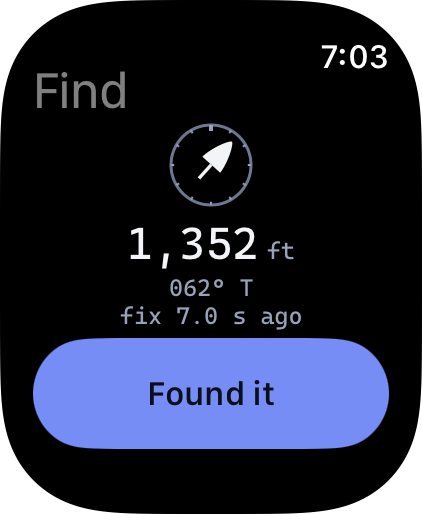
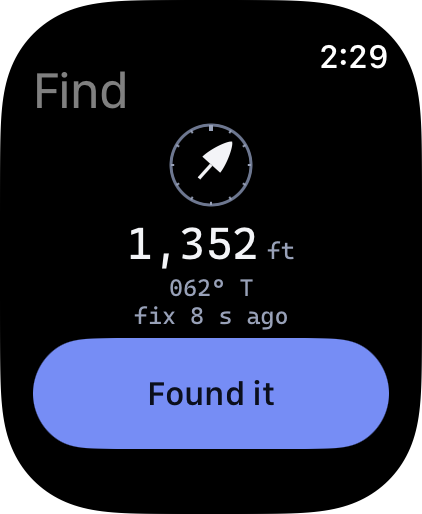
One arm confirmation on both platforms; whole seconds on the watches; the watch rule confirmed
- "Arm FS-VEGA-004?" / "Once armed, the charges can fire. The airframe switch must be on." /
  "Arm FS-VEGA-004" and Cancel, the same on iPhone and Android. SwiftUI gets fsArmConfirmation,
  used by FSHoldToConfirm's VoiceOver action (its dialog said "Hold to arm FS-VEGA-004?"). An alert:
  iOS 27 draws a confirmation dialog as a see-through popover over the arming panel, with no Cancel.
- Watch Find shows the fix's age in whole seconds on both platforms: the screen redraws once a
  second, so the tenths never moved. VoiceOver on Apple Watch says "fix 8 seconds old".
- product/watch.md: why a watch never sends SAFE (an accidental SAFE after arming means no
  deployment; the flier is at the pad for arming and disarming).
- face.sh takes AT_TIME=10:09 to wait for the clock before capturing a face.
- Retaken: watch-ultra-find, watch-se40-find, wear-find, wear-small-find.

Changed region(s): [[0.2773, 0.5914, 0.7085, 0.6537], [0.7701, 0.0934, 0.9242, 0.1556]]

diff --git a/product/watch/swiftui/FSWatch.swift b/product/watch/swiftui/FSWatch.swift
@@ -65,6 +65,24 @@ public struct FSBearingArrow: View {
     }
 }
 
+/// A fix's age on the watch, in whole seconds ("4 s ago", "3 min ago", "2 h ago"): the screen redraws once a second, so a
+/// tenths digit would sit still and only look precise. `spoken` is the same in words for VoiceOver ("4 seconds").
+enum FSWatchAge {
+    static func shown(since d: Date, now: Date) -> String {
+        let s = Int(max(0, now.timeIntervalSince(d)))
+        if s < 60 { return "\(s)\u{00A0}s ago" }
+        if s < 3600 { return "\(s / 60)\u{00A0}min ago" }
+        return "\(s / 3600)\u{00A0}h ago"
+    }
+    static func spoken(since d: Date, now: Date) -> String {
+        let s = Int(max(0, now.timeIntervalSince(d)))
+        func n(_ v: Int, _ unit: String) -> String { "\(v) \(unit)" + (v == 1 ? "" : "s") }
+        if s < 60 { return n(s, "second") }
+        if s < 3600 { return n(s / 60, "minute") }
+        return n(s / 3600, "hour")
+    }
+}
+
 /// Find: the way to a landed rocket, how far, the bearing in degrees true, and how old the fix is. Dims for Always On:
 /// outlines, muted, the age replaced by the time it was true ("as of 9:41"), redrawn once a minute.
 public struct FSWatchFind: View {
@@ -102,7 +120,7 @@ public struct FSWatchFind: View {
             .lineLimit(1).minimumScaleFactor(0.7)
             .accessibilityElement(children: .ignore)
             .accessibilityLabel(Text("Rocket \(distanceFt.formatted()) feet away, \(spokenDirection)"))
-            .accessibilityValue(Text(FSFreshness.age(since: fixedAt, now: now)))
+            .accessibilityValue(Text("fix \(FSWatchAge.spoken(since: fixedAt, now: now)) old"))
             Text(qualifier(now: now)).font(FS.label()).foregroundStyle(d.inkMuted)
                 .multilineTextAlignment(.center).fixedSize(horizontal: false, vertical: true)
             // The primary action, full width in the content (a bottom-bar item would sit over the text above).
@@ -131,7 +149,7 @@ public struct FSWatchFind: View {
         let bearing = String(format: "%03d°\u{00A0}T", Int(bearingTrue.rounded()) % 360)
         // Two short lines rather than one long one: the smallest watch is 162 pt wide.
         if dimmed { return "\(bearing)\nas of \(fixedAt.formatted(date: .omitted, time: .shortened))" }
-        return "\(bearing)" + (headingTrue == nil ? " · from north" : "") + "\nfix \(FSFreshness.age(since: fixedAt, now: now))"
+        return "\(bearing)" + (headingTrue == nil ? " · from north" : "") + "\nfix \(FSWatchAge.shown(since: fixedAt, now: now))"
     }
 }
 

diff --git a/source/product/watch/swiftui/FSWatch.swift b/source/product/watch/swiftui/FSWatch.swift
@@ -65,6 +65,24 @@ public struct FSBearingArrow: View {
     }
 }
 
+/// A fix's age on the watch, in whole seconds ("4 s ago", "3 min ago", "2 h ago"): the screen redraws once a second, so a
+/// tenths digit would sit still and only look precise. `spoken` is the same in words for VoiceOver ("4 seconds").
+enum FSWatchAge {
+    static func shown(since d: Date, now: Date) -> String {
+        let s = Int(max(0, now.timeIntervalSince(d)))
+        if s < 60 { return "\(s)\u{00A0}s ago" }
+        if s < 3600 { return "\(s / 60)\u{00A0}min ago" }
+        return "\(s / 3600)\u{00A0}h ago"
+    }
+    static func spoken(since d: Date, now: Date) -> String {
+        let s = Int(max(0, now.timeIntervalSince(d)))
+        func n(_ v: Int, _ unit: String) -> String { "\(v) \(unit)" + (v == 1 ? "" : "s") }
+        if s < 60 { return n(s, "second") }
+        if s < 3600 { return n(s / 60, "minute") }
+        return n(s / 3600, "hour")
+    }
+}
+
 /// Find: the way to a landed rocket, how far, the bearing in degrees true, and how old the fix is. Dims for Always On:
 /// outlines, muted, the age replaced by the time it was true ("as of 9:41"), redrawn once a minute.
 public struct FSWatchFind: View {
@@ -102,7 +120,7 @@ public struct FSWatchFind: View {
             .lineLimit(1).minimumScaleFactor(0.7)
             .accessibilityElement(children: .ignore)
             .accessibilityLabel(Text("Rocket \(distanceFt.formatted()) feet away, \(spokenDirection)"))
-            .accessibilityValue(Text(FSFreshness.age(since: fixedAt, now: now)))
+            .accessibilityValue(Text("fix \(FSWatchAge.spoken(since: fixedAt, now: now)) old"))
             Text(qualifier(now: now)).font(FS.label()).foregroundStyle(d.inkMuted)
                 .multilineTextAlignment(.center).fixedSize(horizontal: false, vertical: true)
             // The primary action, full width in the content (a bottom-bar item would sit over the text above).
@@ -131,7 +149,7 @@ public struct FSWatchFind: View {
         let bearing = String(format: "%03d°\u{00A0}T", Int(bearingTrue.rounded()) % 360)
         // Two short lines rather than one long one: the smallest watch is 162 pt wide.
         if dimmed { return "\(bearing)\nas of \(fixedAt.formatted(date: .omitted, time: .shortened))" }
-        return "\(bearing)" + (headingTrue == nil ? " · from north" : "") + "\nfix \(FSFreshness.age(since: fixedAt, now: now))"
+        return "\(bearing)" + (headingTrue == nil ? " · from north" : "") + "\nfix \(FSWatchAge.shown(since: fixedAt, now: now))"
     }
 }
 

diff --git a/product/mobile/swiftui/FSComponents.swift b/product/mobile/swiftui/FSComponents.swift
@@ -452,11 +452,31 @@ public struct FSHoldToConfirm: View {
             .accessibilityLabel(Text("\(title) \(designation)"))
             .accessibilityHint(Text("Press and hold for \(Int(duration)) seconds, or use the action to confirm instead."))
             .accessibilityAddTraits(.isButton)
-            .accessibilityAction(named: Text("\(title) with a confirmation")) { confirming = true }
-            .confirmationDialog(Text("\(title) \(designation)?"), isPresented: $confirming, titleVisibility: .visible) {
-                Button(title, role: .destructive) { done += 1; action() }
-                Button("Cancel", role: .cancel) {}
-            }
+            .accessibilityAction(named: Text("\(verb) with a confirmation")) { confirming = true }
+            .fsArmConfirmation(isPresented: $confirming, action: verb, designation: designation) { done += 1; action() }
+        }
+    }
+
+    /// The verb the control stands for: "Hold to arm" → "Arm".
+    private var verb: String {
+        let v = title.hasPrefix("Hold to ") ? String(title.dropFirst(8)) : title
+        return v.prefix(1).uppercased() + v.dropFirst()
+    }
+}
+
+extension View {
+    /// The two-step alternative to `FSHoldToConfirm` (product/embedded.md): "Arm FS-VEGA-004?", what arming means, then a
+    /// button that repeats the action with the device's designation ("Arm FS-VEGA-004", destructive) and Cancel. Open it from
+    /// the hold control's VoiceOver action and from a visible "Arm with a confirmation instead" button under it. An alert, not
+    /// a confirmation dialog: iOS 27 draws those as a see-through popover over the arming panel, with no Cancel button.
+    public func fsArmConfirmation(isPresented: Binding<Bool>, action: String = "Arm", designation: String,
+                                  message: String = "Once armed, the charges can fire. The airframe switch must be on.",
+                                  onConfirmed: @escaping () -> Void) -> some View {
+        alert(Text("\(action) \(designation)?"), isPresented: isPresented) {
+            Button("\(action) \(designation)", role: .destructive, action: onConfirmed)
+            Button("Cancel", role: .cancel) {}
+        } message: {
+            Text(message)
         }
     }
 }

diff --git a/source/product/mobile/swiftui/FSComponents.swift b/source/product/mobile/swiftui/FSComponents.swift
@@ -452,11 +452,31 @@ public struct FSHoldToConfirm: View {
             .accessibilityLabel(Text("\(title) \(designation)"))
             .accessibilityHint(Text("Press and hold for \(Int(duration)) seconds, or use the action to confirm instead."))
             .accessibilityAddTraits(.isButton)
-            .accessibilityAction(named: Text("\(title) with a confirmation")) { confirming = true }
-            .confirmationDialog(Text("\(title) \(designation)?"), isPresented: $confirming, titleVisibility: .visible) {
-                Button(title, role: .destructive) { done += 1; action() }
-                Button("Cancel", role: .cancel) {}
-            }
+            .accessibilityAction(named: Text("\(verb) with a confirmation")) { confirming = true }
+            .fsArmConfirmation(isPresented: $confirming, action: verb, designation: designation) { done += 1; action() }
+        }
+    }
+
+    /// The verb the control stands for: "Hold to arm" → "Arm".
+    private var verb: String {
+        let v = title.hasPrefix("Hold to ") ? String(title.dropFirst(8)) : title
+        return v.prefix(1).uppercased() + v.dropFirst()
+    }
+}
+
+extension View {
+    /// The two-step alternative to `FSHoldToConfirm` (product/embedded.md): "Arm FS-VEGA-004?", what arming means, then a
+    /// button that repeats the action with the device's designation ("Arm FS-VEGA-004", destructive) and Cancel. Open it from
+    /// the hold control's VoiceOver action and from a visible "Arm with a confirmation instead" button under it. An alert, not
+    /// a confirmation dialog: iOS 27 draws those as a see-through popover over the arming panel, with no Cancel button.
+    public func fsArmConfirmation(isPresented: Binding<Bool>, action: String = "Arm", designation: String,
+                                  message: String = "Once armed, the charges can fire. The airframe switch must be on.",
+                                  onConfirmed: @escaping () -> Void) -> some View {
+        alert(Text("\(action) \(designation)?"), isPresented: isPresented) {
+            Button("\(action) \(designation)", role: .destructive, action: onConfirmed)
+            Button("Cancel", role: .cancel) {}
+        } message: {
+            Text(message)
         }
     }
 }

diff --git a/product/mobile/compose/FsComponents.kt b/product/mobile/compose/FsComponents.kt
@@ -539,16 +539,18 @@ fun FsHoldToConfirm(
 /**
  * The accessible alternative to [FsHoldToConfirm], still two steps: a visible button ("Arm with a confirmation instead") or
  * the TalkBack action opens this, and the second step is its confirm button. [action] is the verb ("Arm"), not the hold
- * control's title.
+ * control's title. "Arm FS-VEGA-004?", what arming means, then a button that repeats the action with the designation
+ * ("Arm FS-VEGA-004", in danger ink) and Cancel: the same words as `fsArmConfirmation` in SwiftUI.
  */
 @Composable
-fun FsArmConfirmation(action: String, designation: String, onConfirmed: () -> Unit, onDismiss: () -> Unit) {
+fun FsArmConfirmation(action: String, designation: String, onConfirmed: () -> Unit, onDismiss: () -> Unit,
+                      message: String = "Once armed, the charges can fire. The airframe switch must be on.") {
     val c = LocalFsColors.current
     AlertDialog(
         onDismissRequest = onDismiss,
         title = { Text("$action $designation?") },
-        text = { Text("The airframe's switch must already be on. SAFE stays one tap away.") },
-        confirmButton = { TextButton(onClick = onConfirmed) { Text(action, color = c.danger) } },
+        text = { Text(message) },
+        confirmButton = { TextButton(onClick = onConfirmed) { Text("$action $designation", color = c.danger) } },
         dismissButton = { TextButton(onClick = onDismiss) { Text("Cancel") } },
     )
 }

diff --git a/source/product/mobile/compose/FsComponents.kt b/source/product/mobile/compose/FsComponents.kt
@@ -539,16 +539,18 @@ fun FsHoldToConfirm(
 /**
  * The accessible alternative to [FsHoldToConfirm], still two steps: a visible button ("Arm with a confirmation instead") or
  * the TalkBack action opens this, and the second step is its confirm button. [action] is the verb ("Arm"), not the hold
- * control's title.
+ * control's title. "Arm FS-VEGA-004?", what arming means, then a button that repeats the action with the designation
+ * ("Arm FS-VEGA-004", in danger ink) and Cancel: the same words as `fsArmConfirmation` in SwiftUI.
  */
 @Composable
-fun FsArmConfirmation(action: String, designation: String, onConfirmed: () -> Unit, onDismiss: () -> Unit) {
+fun FsArmConfirmation(action: String, designation: String, onConfirmed: () -> Unit, onDismiss: () -> Unit,
+                      message: String = "Once armed, the charges can fire. The airframe switch must be on.") {
     val c = LocalFsColors.current
     AlertDialog(
         onDismissRequest = onDismiss,
         title = { Text("$action $designation?") },
-        text = { Text("The airframe's switch must already be on. SAFE stays one tap away.") },
-        confirmButton = { TextButton(onClick = onConfirmed) { Text(action, color = c.danger) } },
+        text = { Text(message) },
+        confirmButton = { TextButton(onClick = onConfirmed) { Text("$action $designation", color = c.danger) } },
         dismissButton = { TextButton(onClick = onDismiss) { Text("Cancel") } },
     )
 }

diff --git a/product/watch/compose/FsWear.kt b/product/watch/compose/FsWear.kt
@@ -151,14 +151,17 @@ internal object FsWearMono { var family: FontFamily = FontFamily.Monospace }
 private fun label() = TextStyle(fontFamily = FsWearMono.family, fontSize = 11.sp, letterSpacing = 0.06.em, color = FsWearColors.inkMuted)
 private fun readout(size: Int) = TextStyle(fontFamily = FsWearMono.family, fontSize = size.sp, fontFeatureSettings = "tnum, zero")
 
-/** How old a value is, as drawn: "0.4 s ago", "4 min ago", "2 h ago" (FsFreshness.age on the phone; number and unit kept together). */
+/**
+ * How old a fix is, as drawn, in whole seconds: "4 s ago", "4 min ago", "2 h ago" (number and unit kept together). Whole
+ * seconds, unlike the phone's FsFreshness.age: the watch redraws once a second, so a tenths digit would sit still and only
+ * look precise.
+ */
 fun fsWearAge(ageMs: Long): String {
-    val s = ageMs.coerceAtLeast(0) / 1000.0
+    val s = ageMs.coerceAtLeast(0) / 1000
     return when {
-        s < 10 -> "${"%.1f".format(s)}\u00A0s ago"
-        s < 60 -> "${s.toInt()}\u00A0s ago"
-        s < 3600 -> "${(s / 60).toInt()}\u00A0min ago"
-        else -> "${(s / 3600).toInt()}\u00A0h ago"
+        s < 60 -> "$s\u00A0s ago"
+        s < 3600 -> "${s / 60}\u00A0min ago"
+        else -> "${s / 3600}\u00A0h ago"
     }
 }
 

diff --git a/source/product/watch/compose/FsWear.kt b/source/product/watch/compose/FsWear.kt
@@ -130,14 +130,17 @@ internal object FsWearMono { var family: FontFamily = FontFamily.Monospace }
 private fun label() = TextStyle(fontFamily = FsWearMono.family, fontSize = 11.sp, letterSpacing = 0.06.em, color = FsWearColors.inkMuted)
 private fun readout(size: Int) = TextStyle(fontFamily = FsWearMono.family, fontSize = size.sp, fontFeatureSettings = "tnum, zero")
 
-/** How old a value is, as drawn: "0.4 s ago", "4 min ago", "2 h ago" (FsFreshness.age on the phone; number and unit kept together). */
+/**
+ * How old a fix is, as drawn, in whole seconds: "4 s ago", "4 min ago", "2 h ago" (number and unit kept together). Whole
+ * seconds, unlike the phone's FsFreshness.age: the watch redraws once a second, so a tenths digit would sit still and only
+ * look precise.
+ */
 fun fsWearAge(ageMs: Long): String {
-    val s = ageMs.coerceAtLeast(0) / 1000.0
+    val s = ageMs.coerceAtLeast(0) / 1000
     return when {
-        s < 10 -> "${"%.1f".format(s)}\u00A0s ago"
-        s < 60 -> "${s.toInt()}\u00A0s ago"
-        s < 3600 -> "${(s / 60).toInt()}\u00A0min ago"
-        else -> "${(s / 3600).toInt()}\u00A0h ago"
+        s < 60 -> "$s\u00A0s ago"
+        s < 3600 -> "${s / 60}\u00A0min ago"
+        else -> "${s / 3600}\u00A0h ago"
     }
 }
 

diff --git a/source/product/samples/apple/iOS/PadScreen.swift b/source/product/samples/apple/iOS/PadScreen.swift
@@ -89,10 +89,8 @@ struct PadScreen: View {
                         Text("Arm with a confirmation instead").multilineTextAlignment(.center)
                             .frame(maxWidth: .infinity, minHeight: 44).contentShape(Rectangle())
                     }
-                    .confirmationDialog("Arm \(Sample.designation)?", isPresented: $confirmingArm, titleVisibility: .visible) {
-                        Button("Arm \(Sample.designation)", role: .destructive) { commanded = "ARM"; armed = true; confirmedAt = .now }
-                    } message: {
-                        Text("The charges can fire once the device is armed.")
+                    .fsArmConfirmation(isPresented: $confirmingArm, designation: Sample.designation) {
+                        commanded = "ARM"; armed = true; confirmedAt = .now
                     }
                 }
     }

diff --git a/product/watch.md b/product/watch.md
@@ -16,7 +16,11 @@ Stack and tiles, and SwiftUI and Compose code).
 - **It never commands hardware.** No ARM, no SAFE, no FIRE, no ground test, no configuration change, no firmware update. A watch
   screen is small enough that a cuff, a glove or a turn of the wrist can touch it, and there is no room for the device's
   designation and two separate actions ([`embedded.md`](embedded.md#arming-and-safety)). Arming is the airframe switch plus
-  the phone; safing is the switch, or the phone. The watch shows the state, including commanded and confirmed.
+  the phone; safing is the switch, or the phone. The watch shows the state, including commanded and confirmed. SAFE
+  isn't harmless either: safed by a cuff or the double-tap gesture between arming and launch, the rocket flies with no
+  deployment, and nobody at the flight line would know. The safety codes put the flier at the pad for arming and for
+  disarming (Tripoli 13-8, 13-10), beside the switch. If field use ever calls for it, the one exception worth weighing is
+  SAFE after landing: offered only once the device reports it has landed, held for 2 s, the confirmed state shown.
 - **It is never the only alert.** An unfired charge is reported first by the device (screen, LED, beeper) and the phone; the
   watch adds a tap and a full screen, it doesn't replace them.
 - **It doesn't decide.** Like every FusionSpace product it shows the wind and the limit, never a go or no-go.

diff --git a/source/product/watch.md b/source/product/watch.md
@@ -16,7 +16,11 @@ Stack and tiles, and SwiftUI and Compose code).
 - **It never commands hardware.** No ARM, no SAFE, no FIRE, no ground test, no configuration change, no firmware update. A watch
   screen is small enough that a cuff, a glove or a turn of the wrist can touch it, and there is no room for the device's
   designation and two separate actions ([`embedded.md`](embedded.md#arming-and-safety)). Arming is the airframe switch plus
-  the phone; safing is the switch, or the phone. The watch shows the state, including commanded and confirmed.
+  the phone; safing is the switch, or the phone. The watch shows the state, including commanded and confirmed. SAFE
+  isn't harmless either: safed by a cuff or the double-tap gesture between arming and launch, the rocket flies with no
+  deployment, and nobody at the flight line would know. The safety codes put the flier at the pad for arming and for
+  disarming (Tripoli 13-8, 13-10), beside the switch. If field use ever calls for it, the one exception worth weighing is
+  SAFE after landing: offered only once the device reports it has landed, held for 2 s, the confirmed state shown.
 - **It is never the only alert.** An unfired charge is reported first by the device (screen, LED, beeper) and the phone; the
   watch adds a tap and a full screen, it doesn't replace them.
 - **It doesn't decide.** Like every FusionSpace product it shows the wind and the limit, never a go or no-go.
